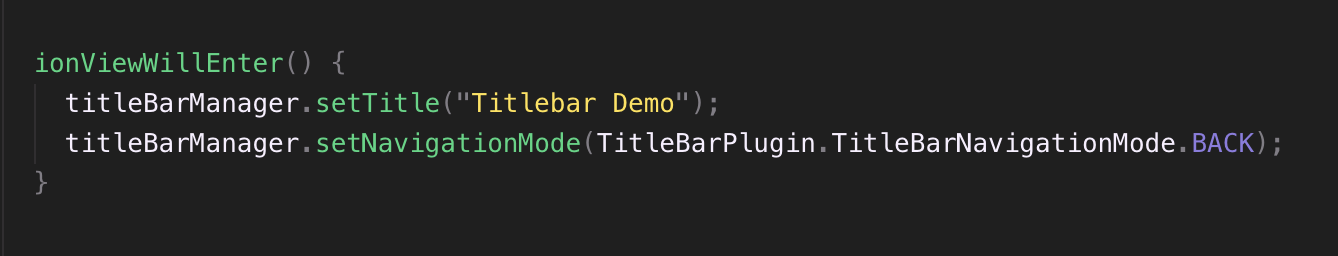
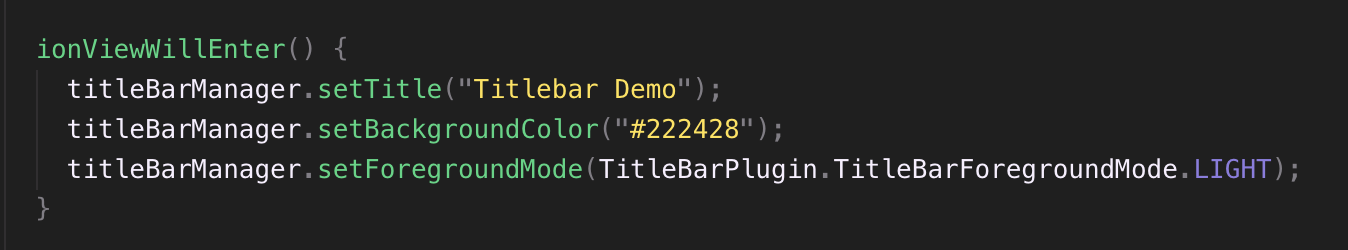
Update titlebar guide

Changed region(s): [[0.0306, 0.308, 0.9806, 0.728], [0.0306, 0.14, 0.2758, 0.28], [0.0306, 0.812, 0.0613, 0.84]]

diff --git a/cli/assets/dapptemplate/angular/demo/src/app/services/titlebar.service.ts b/cli/assets/dapptemplate/angular/demo/src/app/services/titlebar.service.ts
@@ -1,6 +1,7 @@
 import { Injectable } from '@angular/core';
-import { ModalController } from '@ionic/angular';
+import { ModalController, NavController } from '@ionic/angular';
 import { TitlebarDemoPage } from '../pages/titlebar/titlebar-demo/titlebar-demo.page';
+import { Router } from '@angular/router';
 
 declare let titleBarManager: TitleBarPlugin.TitleBarManager;
 
@@ -27,12 +28,24 @@ export class TitlebarService {
       example: 'assets/titlebar/color.png'
     },
     {
+      type: 'Icons',
+      title: 'Customize Icons',
+      method: 'setIcon',
+      message: 'Setting an icon is a special way add buttons to your titlebar. To set an icon, make sure to have a listener ready once your app is rendered. Then you can add your icon to a page where you want it revealed using the page\'s life cycle.',
+      message3: 'Make sure to declare the position of the icon, a key (special name to handle the icon) and the icon itself which you can set the path for or simply use one of elastOS built-in icons.',
+      example2: 'assets/titlebar/listener.png',
+      example3: 'assets/titlebar/setIcon.png',
+    },
+    {
       type: 'Navigation',
       title: 'Customize Navigation',
-      method: 'setNavigationMode',
-      message: 'You have three simple options to navigate through your app: return to the browser, return to the previous page or just close the app. Declaring any of these options will add a back or close key to the left corner of your titlebar.',
-      message2: 'It\'s pretty straight forward on how they work. If you declare your navigation as HOME in your app page, the back key will return you to the browser and minimize the app. Declaring BACK will navigate to the previous page and declaring CLOSE will terminate the app.',
-      example: 'assets/titlebar/navigation.png'
+      method: 'setIcon',
+      message: 'Setting your app\'s navigation is similar to setting an icon to your titlebar.',
+      message2: 'To set naviation in your titlebar, make sure to have a listener ready once your app is rendered. Then you can add (or) remove the elastOS back-icon in a page using a life cycle.',
+      message3: 'Make sure to declare the position of the icon (ideally in the outer left of the titlebar), a key (special name to handle the icon) and the icon itself.',
+      example: 'assets/titlebar/back-listener.png',
+      example2: 'assets/titlebar/setBackIcon.png',
+      example3: 'assets/titlebar/setBackIcon2.png',
     },
     {
       type: 'Items',
@@ -55,8 +68,18 @@ export class TitlebarService {
     modal.present();
   }
 
-  constructor(private modalCtrl: ModalController) { }
+  constructor(private modalCtrl: ModalController, private router: Router) { }
 
+  init() {
+    this.setColor();
+
+    titleBarManager.addOnItemClickedListener((menuIcon) => {
+      if (menuIcon.key === "back") {
+        this.modalCtrl.dismiss();
+        this.router.navigate(['/home']);
+      }
+    });
+  }
 
   /******************** Set Title ********************/
   setTitle() {
@@ -73,13 +96,23 @@ export class TitlebarService {
   }
 
   /******************** Set Navigation ********************/
-  setBackNavigation() {
-/*     // Set as app's home page and page's navigation back to browser
-    titleBarManager.setNavigationMode(TitleBarPlugin.TitleBarNavigationMode.HOME);
-    // Set page's navigation to previous page
-    titleBarManager.setNavigationMode(TitleBarPlugin.TitleBarNavigationMode.BACK);
-    // Set page's navigation to close app
-    titleBarManager.setNavigationMode(TitleBarPlugin.TitleBarNavigationMode.CLOSE); */
+  setTitleBarBackKeyShown(show: boolean) {
+    if (show) {
+      titleBarManager.setIcon(TitleBarPlugin.TitleBarIconSlot.INNER_LEFT, {
+        key: "back",
+        iconPath: TitleBarPlugin.BuiltInIcon.BACK
+      });
+    } else {
+      titleBarManager.setIcon(TitleBarPlugin.TitleBarIconSlot.INNER_LEFT, null);
+    }
+  }
+
+  /******************** Set and Handle Icons ********************/
+  setIcon() {
+    titleBarManager.setIcon(TitleBarPlugin.TitleBarIconSlot.OUTER_RIGHT, {
+      key: "add",
+      iconPath:  TitleBarPlugin.BuiltInIcon.ADD
+    });
   }
 
   /******************** Set Menu Items ********************/

diff --git a/cli/assets/dapptemplate/angular/demo/src/app/pages/intent/intent-demo/intent-demo.page.ts b/cli/assets/dapptemplate/angular/demo/src/app/pages/intent/intent-demo/intent-demo.page.ts
@@ -3,6 +3,7 @@ import { NavParams } from '@ionic/angular';
 import { DAppService } from 'src/app/services/dapp.service';
 import { IntentService } from 'src/app/services/intent.service';
 import { THIS_EXPR } from '@angular/compiler/src/output/output_ast';
+import { TitlebarService } from 'src/app/services/titlebar.service';
 
 declare let appManager: AppManagerPlugin.AppManager;
 declare let titleBarManager: TitleBarPlugin.TitleBarManager;
@@ -19,7 +20,8 @@ export class IntentDemoPage implements OnInit {
   constructor(
     private navParams: NavParams,
     public dappService: DAppService,
-    public intentService: IntentService
+    public intentService: IntentService,
+    private titlebarService: TitlebarService
   ) { }
 
   ngOnInit() {
@@ -29,10 +31,11 @@ export class IntentDemoPage implements OnInit {
 
   ionViewWillEnter() {
     titleBarManager.setTitle('Intent Demo');
+    this.titlebarService.setTitleBarBackKeyShown(true);
   }
 
   ionViewWillLeave() {
-    titleBarManager.setTitle("Demo Template");
+    this.titlebarService.setTitleBarBackKeyShown(false);
   }
 
   testIntent() {

diff --git a/cli/assets/dapptemplate/angular/demo/src/app/pages/appmanager/appmanager.page.ts b/cli/assets/dapptemplate/angular/demo/src/app/pages/appmanager/appmanager.page.ts
@@ -1,5 +1,6 @@
 import { Component, OnInit } from '@angular/core';
 import { AppmanagerService } from 'src/app/services/appmanager.service';
+import { TitlebarService } from 'src/app/services/titlebar.service';
 
 declare let titleBarManager: TitleBarPlugin.TitleBarManager;
 
@@ -11,7 +12,8 @@ declare let titleBarManager: TitleBarPlugin.TitleBarManager;
 export class AppmanagerPage implements OnInit {
 
   constructor(
-    public appManagerService: AppmanagerService
+    public appManagerService: AppmanagerService,
+    private titlebarService: TitlebarService
   ) { }
 
   ngOnInit() {
@@ -19,5 +21,10 @@ export class AppmanagerPage implements OnInit {
 
   ionViewWillEnter() {
     titleBarManager.setTitle("App Manager Guide");
+    this.titlebarService.setTitleBarBackKeyShown(true);
+  }
+
+  ionViewWillLeave() {
+    this.titlebarService.setTitleBarBackKeyShown(false);
   }
 }

diff --git a/cli/assets/dapptemplate/angular/demo/src/app/app.component.ts b/cli/assets/dapptemplate/angular/demo/src/app/app.component.ts
@@ -2,6 +2,7 @@ import { Component, ViewChild } from '@angular/core';
 import { Platform, IonRouterOutlet, NavController } from '@ionic/angular';
 import { Router } from '@angular/router';
 import { DAppService } from './services/dapp.service';
+import { TitlebarService } from './services/titlebar.service';
 
 @Component({
   selector: 'my-app',
@@ -13,7 +14,8 @@ export class MyApp {
   constructor(
     private platform: Platform, 
     private navController: NavController, 
-    private dappService: DAppService
+    private dappService: DAppService,
+    private titlebarService: TitlebarService
   ) {
     this.initializeApp();
   }
@@ -24,6 +26,7 @@ export class MyApp {
       // plugins such as AppManager or TitleBarManager are not ready.
 
       this.dappService.init();
+      this.titlebarService.init();
       this.navController.navigateRoot("/home");
     });
   }

diff --git a/cli/assets/dapptemplate/angular/demo/src/app/pages/core/core.page.ts b/cli/assets/dapptemplate/angular/demo/src/app/pages/core/core.page.ts
@@ -1,5 +1,6 @@
 import { Component, OnInit } from '@angular/core';
 import { IntentService } from 'src/app/services/intent.service';
+import { TitlebarService } from 'src/app/services/titlebar.service';
 
 declare let titleBarManager: TitleBarPlugin.TitleBarManager;
 
@@ -11,7 +12,8 @@ declare let titleBarManager: TitleBarPlugin.TitleBarManager;
 export class CorePage implements OnInit {
 
   constructor(
-    public intentService: IntentService
+    public intentService: IntentService,
+    private titlebarService: TitlebarService
   ) { }
 
   ngOnInit() {
@@ -19,6 +21,11 @@ export class CorePage implements OnInit {
 
   ionViewWillEnter() {
     titleBarManager.setTitle("Core Demos");
+    this.titlebarService.setTitleBarBackKeyShown(true);
+  }
+
+  ionViewWillLeave() {
+    this.titlebarService.setTitleBarBackKeyShown(false);
   }
 
 }

diff --git a/cli/assets/dapptemplate/angular/demo/src/app/pages/intent/intent.page.ts b/cli/assets/dapptemplate/angular/demo/src/app/pages/intent/intent.page.ts
@@ -1,5 +1,6 @@
 import { Component, OnInit } from '@angular/core';
 import { IntentService } from 'src/app/services/intent.service';
+import { TitlebarService } from 'src/app/services/titlebar.service';
 
 declare let appManager: AppManagerPlugin.AppManager;
 declare let titleBarManager: TitleBarPlugin.TitleBarManager;
@@ -12,10 +13,19 @@ declare let titleBarManager: TitleBarPlugin.TitleBarManager;
 export class IntentPage implements OnInit {
 
   constructor(
-    public intentService: IntentService
+    public intentService: IntentService,
+    private titlebarService: TitlebarService
   ) { }
 
   ngOnInit() {
+  }
+
+  ionViewWillEnter() {
     titleBarManager.setTitle("Intent Guide");
+    this.titlebarService.setTitleBarBackKeyShown(true);
+  }
+
+  ionViewWillLeave() {
+    this.titlebarService.setTitleBarBackKeyShown(false);
   }
 }

diff --git a/cli/assets/dapptemplate/angular/demo/src/app/pages/appmanager/appmanager-demo/appmanager-demo.page.ts b/cli/assets/dapptemplate/angular/demo/src/app/pages/appmanager/appmanager-demo/appmanager-demo.page.ts
@@ -1,5 +1,6 @@
 import { Component, OnInit } from '@angular/core';
 import { NavParams } from '@ionic/angular';
+import { TitlebarService } from 'src/app/services/titlebar.service';
 
 declare let titleBarManager: TitleBarPlugin.TitleBarManager;
 
@@ -13,7 +14,8 @@ export class AppmanagerDemoPage implements OnInit {
   public manager;
 
   constructor(
-    private navParams: NavParams
+    private navParams: NavParams,
+    private titlebarService: TitlebarService
   ) { }
 
   ngOnInit() {
@@ -23,9 +25,10 @@ export class AppmanagerDemoPage implements OnInit {
 
   ionViewWillEnter() {
     titleBarManager.setTitle('App Manager Demo');
+    this.titlebarService.setTitleBarBackKeyShown(true);
   }
 
   ionViewWillLeave() {
-    titleBarManager.setTitle("Demo Template");
+    this.titlebarService.setTitleBarBackKeyShown(false);
   }
 }

diff --git a/cli/assets/dapptemplate/angular/demo/src/app/pages/titlebar/titlebar-demo/titlebar-demo.page.ts b/cli/assets/dapptemplate/angular/demo/src/app/pages/titlebar/titlebar-demo/titlebar-demo.page.ts
@@ -1,5 +1,6 @@
 import { Component, OnInit } from '@angular/core';
 import { NavParams } from '@ionic/angular';
+import { TitlebarService } from 'src/app/services/titlebar.service';
 
 declare let titleBarManager: TitleBarPlugin.TitleBarManager;
 
@@ -13,7 +14,8 @@ export class TitlebarDemoPage implements OnInit {
   public manager;
 
   constructor(
-    private navParams: NavParams
+    private navParams: NavParams,
+    private titlebarService: TitlebarService
   ) { }
 
   ngOnInit() {
@@ -23,10 +25,12 @@ export class TitlebarDemoPage implements OnInit {
 
   ionViewWillEnter() {
     titleBarManager.setTitle('Titlebar Demo');
+    this.titlebarService.setTitleBarBackKeyShown(true);
   }
 
   ionViewWillLeave() {
     titleBarManager.setTitle("Demo Template");
+    this.titlebarService.setTitleBarBackKeyShown(false);
   }
 
 }

diff --git a/cli/assets/dapptemplate/angular/demo/src/app/pages/titlebar/titlebar-demo/titlebar-demo.page.html b/cli/assets/dapptemplate/angular/demo/src/app/pages/titlebar/titlebar-demo/titlebar-demo.page.html
@@ -6,7 +6,10 @@
       <ion-card-subtitle>method: <span>{{ manager.method }}</span></ion-card-subtitle>
     </ion-card>
     <h3>{{ manager.message }}</h3>
-    <img [src]="manager.example"/>
-    <h4 *ngIf="manager.message2">{{ manager.message2 }}</h4>
+    <img *ngIf="manager.example" [src]="manager.example"/>
+    <h5 *ngIf="manager.message2">{{ manager.message2 }}</h5>
+    <img *ngIf="manager.example2" [src]="manager.example2"/>
+    <img *ngIf="manager.example3" [src]="manager.example3" class="ion-margin-top"/>
+    <h4 *ngIf="manager.message3">{{ manager.message3 }}</h4>
   </ion-grid>
 </ion-content>

diff --git a/cli/assets/dapptemplate/angular/demo/src/app/pages/titlebar/titlebar.page.ts b/cli/assets/dapptemplate/angular/demo/src/app/pages/titlebar/titlebar.page.ts
@@ -18,7 +18,14 @@ export class TitlebarPage implements OnInit {
   }
 
   ionViewWillEnter() {
-    titleBarManager.setTitle("Titlebar Guide");
+    titleBarManager.setTitle("Titlebar Demo");
+    titleBarManager.setBackgroundColor("#222428");
+    titleBarManager.setForegroundMode(TitleBarPlugin.TitleBarForegroundMode.LIGHT);
+    this.titlebarService.setTitleBarBackKeyShown(true);
+  }
+
+  ionViewWillLeave() {
+    this.titlebarService.setTitleBarBackKeyShown(false);
   }
 
 }

diff --git a/cli/assets/dapptemplate/angular/demo/src/app/services/dapp.service.ts b/cli/assets/dapptemplate/angular/demo/src/app/services/dapp.service.ts
@@ -4,6 +4,7 @@ import { Router } from '@angular/router';
 import { HelpComponent } from '../components/help/help.component';
 
 declare let appManager: AppManagerPlugin.AppManager;
+declare let titleBarManager: TitleBarPlugin.TitleBarManager;
 
 @Injectable({
     providedIn: 'root'
@@ -23,7 +24,7 @@ export class DAppService {
         appManager.setListener(msg => {
           this.onMessageReceived(msg);
         });
-
+        
         resolve();
       });
     }

diff --git a/cli/assets/dapptemplate/angular/demo/src/app/pages/home/home.ts b/cli/assets/dapptemplate/angular/demo/src/app/pages/home/home.ts
@@ -35,9 +35,6 @@ export class HomePage {
     // Update system status bar every time we re-enter this screen.
     if (typeof titleBarManager !== 'undefined') {
       titleBarManager.setTitle("Demo Template");
-      titleBarManager.setBackgroundColor("#181d20");
-      titleBarManager.setForegroundMode(TitleBarPlugin.TitleBarForegroundMode.LIGHT);
-      titleBarManager.setNavigationMode(TitleBarPlugin.TitleBarNavigationMode.HOME);
     }
   }
 }
